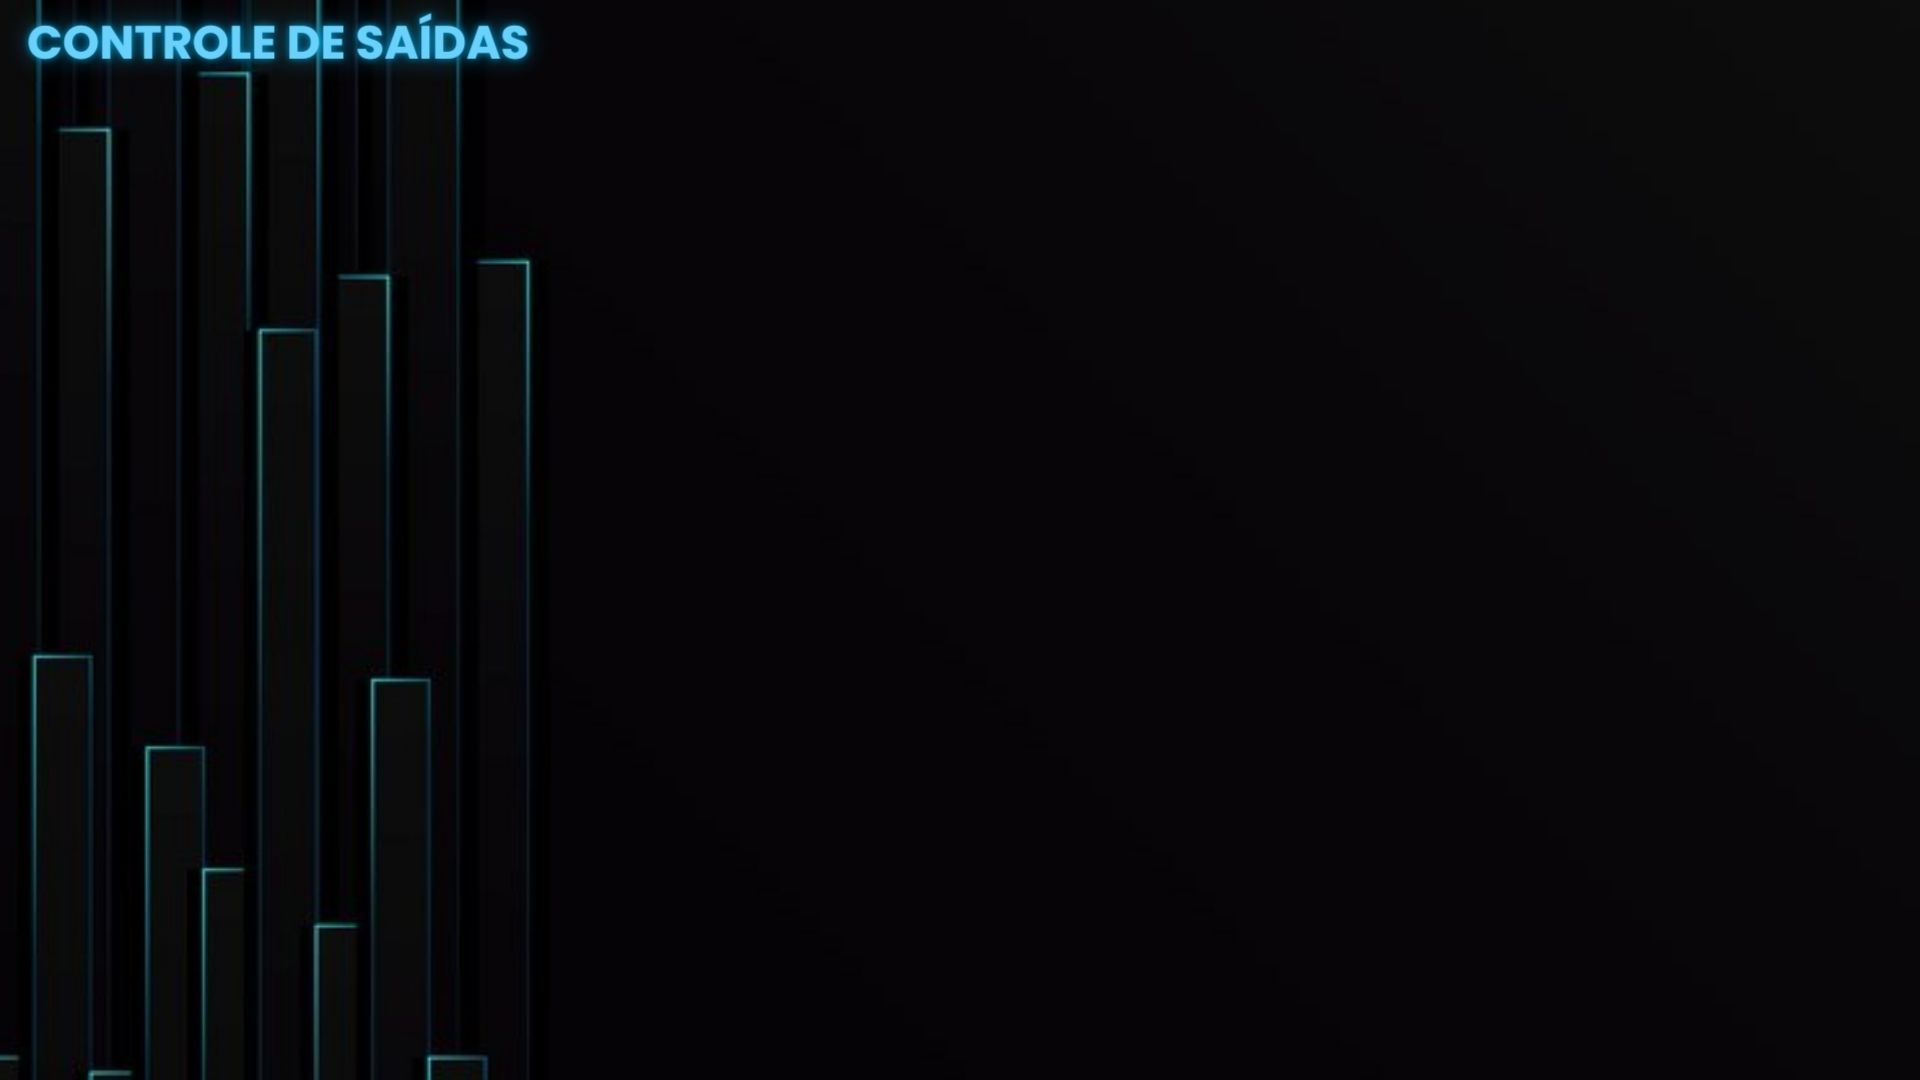
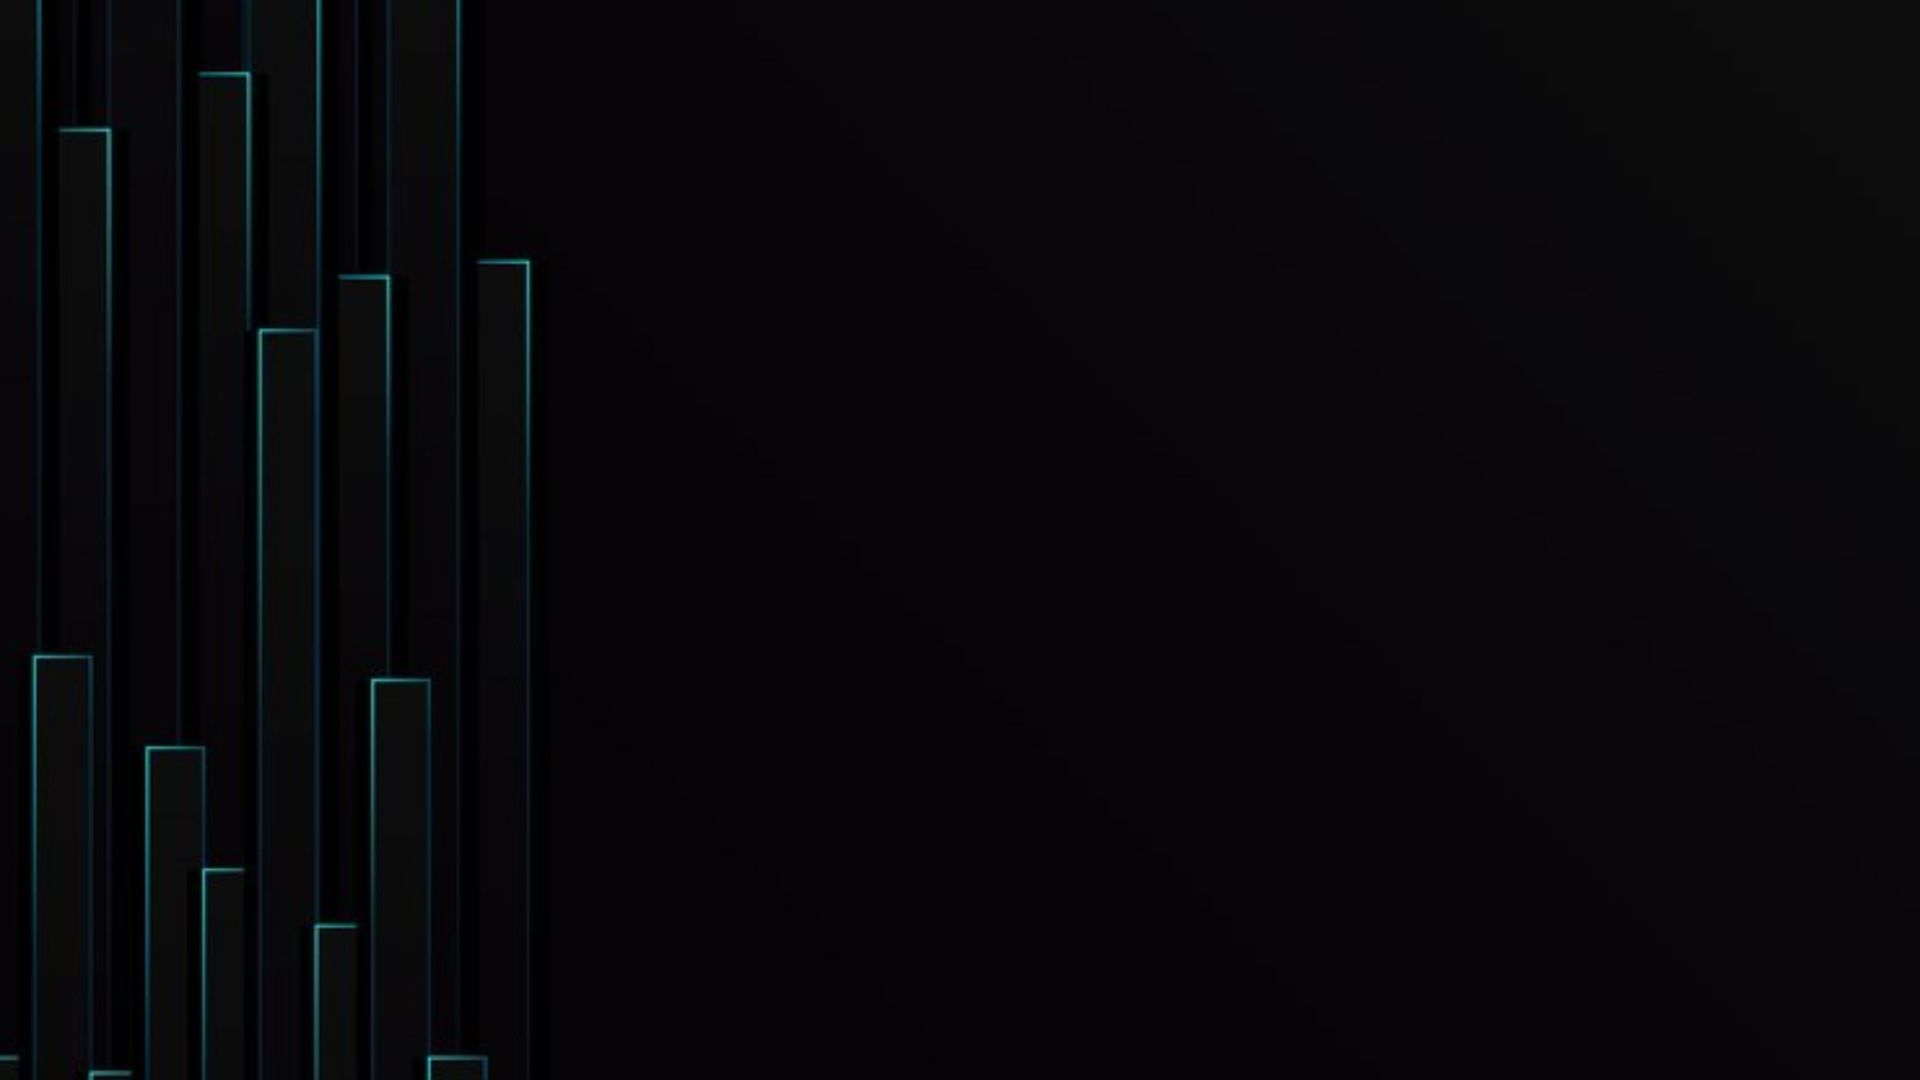
.

Changed region(s): [[0.0, 0.0, 0.2812, 0.0611]]

diff --git a/css/painel.css b/css/painel.css
@@ -1,14 +1,6 @@
-@import url('https://fonts.googleapis.com/css2?family=Poppins:ital,wght@0,200;0,300;1,400&display=swap');
-
-body {
-  font-family: 'poppins';
-}
 
 
-header {
-  color: #f58634;
-  margin-bottom: 1%;
-}
+
 
 .dashboard {
   display: flex;
@@ -219,42 +211,34 @@ button:hover:active:before {
   line-height: 2;
 }
 
-.clock {
-  font-size: 2rem;
-  font-weight: bold;
-  color: rgba(255, 255, 255, 0.473);
-  margin-left: 90%;
-  top: 10px;
-  position: fixed;
-}
-
-@media (max-width: 1920px) {
-  .dashboard {
-    top: 250px;
-  }
-}
-
-@media (max-width: 767px) {
-  .dashboard {
-    position: fixed;
-    width: 54vh;
-    left: -17px;
-    height: 100%;
-    top: 7%;
-  }
-
-  .card{
-    height: auto;
-    width: 51vh;
-    margin: 3px;
-  }
-
-  
-}
 
 .text-container {
   display: flex;
   justify-content: space-between; /* Isso alinha "departamento" e "hora" horizontalmente */
   align-items: center;
   margin-bottom: 10px;
+}
+
+.texto{
+  font-size: 24px;
+  text-transform: uppercase;
+  font-weight: 800;
+  background: linear-gradient(45deg, #00E3CC, #0084ff, #009688,#44E3D3);
+  background-size: 400% 100%;
+  animation: degrade 10s linear infinite alternate;
+  margin-left: -170px;
+  -webkit-background-clip: text;
+  -webkit-text-fill-color: transparent;
+
+  outline: none;
+}
+
+@keyframes degrade {
+  0%{
+      background-position-x: 0%;
+  }
+
+  100%{
+      background-position: 400%;
+  }
 }

diff --git a/teste.html b/teste.html
@@ -1,0 +1,57 @@
+<!DOCTYPE html>
+<html lang="pt-br">
+<head>
+    <meta charset="UTF-8">
+    <meta http-equiv="X-UA-Compatible" content="IE=edge">
+    <meta name="viewport" content="width=device-width, initial-scale=1.0">
+    <link rel="stylesheet" href="style.css">
+    <title>Gradiente em Texto</title>
+</head>
+<body>
+    <div contenteditable="true" class="texto">
+        CONTROLE DE SAÍDA
+    </div>
+
+    <style>
+        @import url('https://fonts.googleapis.com/css2?family=Poppins:wght@800&display=swap');
+
+*{
+    margin: 0;
+    padding: 0;
+    box-sizing: border-box;
+    font-family: 'Poppins', sans-serif;
+}
+
+body{
+    display: flex;
+    align-items: center;
+    justify-content: center;
+    height: 100vh;    
+}
+
+.texto{
+    font-size: 100px;
+    text-transform: uppercase;
+
+    background: linear-gradient(45deg, #00E3CC, #0084ff, #009688,#44E3D3);
+    background-size: 400% 100%;
+    animation: degrade 10s linear infinite alternate;
+
+    -webkit-background-clip: text;
+    -webkit-text-fill-color: transparent;
+
+    outline: none;
+}
+
+@keyframes degrade {
+    0%{
+        background-position-x: 0%;
+    }
+
+    100%{
+        background-position: 400%;
+    }
+}
+    </style>
+</body>
+</html>

diff --git a/painel.html b/painel.html
@@ -9,6 +9,10 @@
     <title>Mural de Monitoramento</title>
 </head>
 <body>
+
+  <div contenteditable="true" class="texto">
+    CONTROLE DE SAÍDAS
+</div>
   
 	<div id="dashboard" class="dashboard">
 
